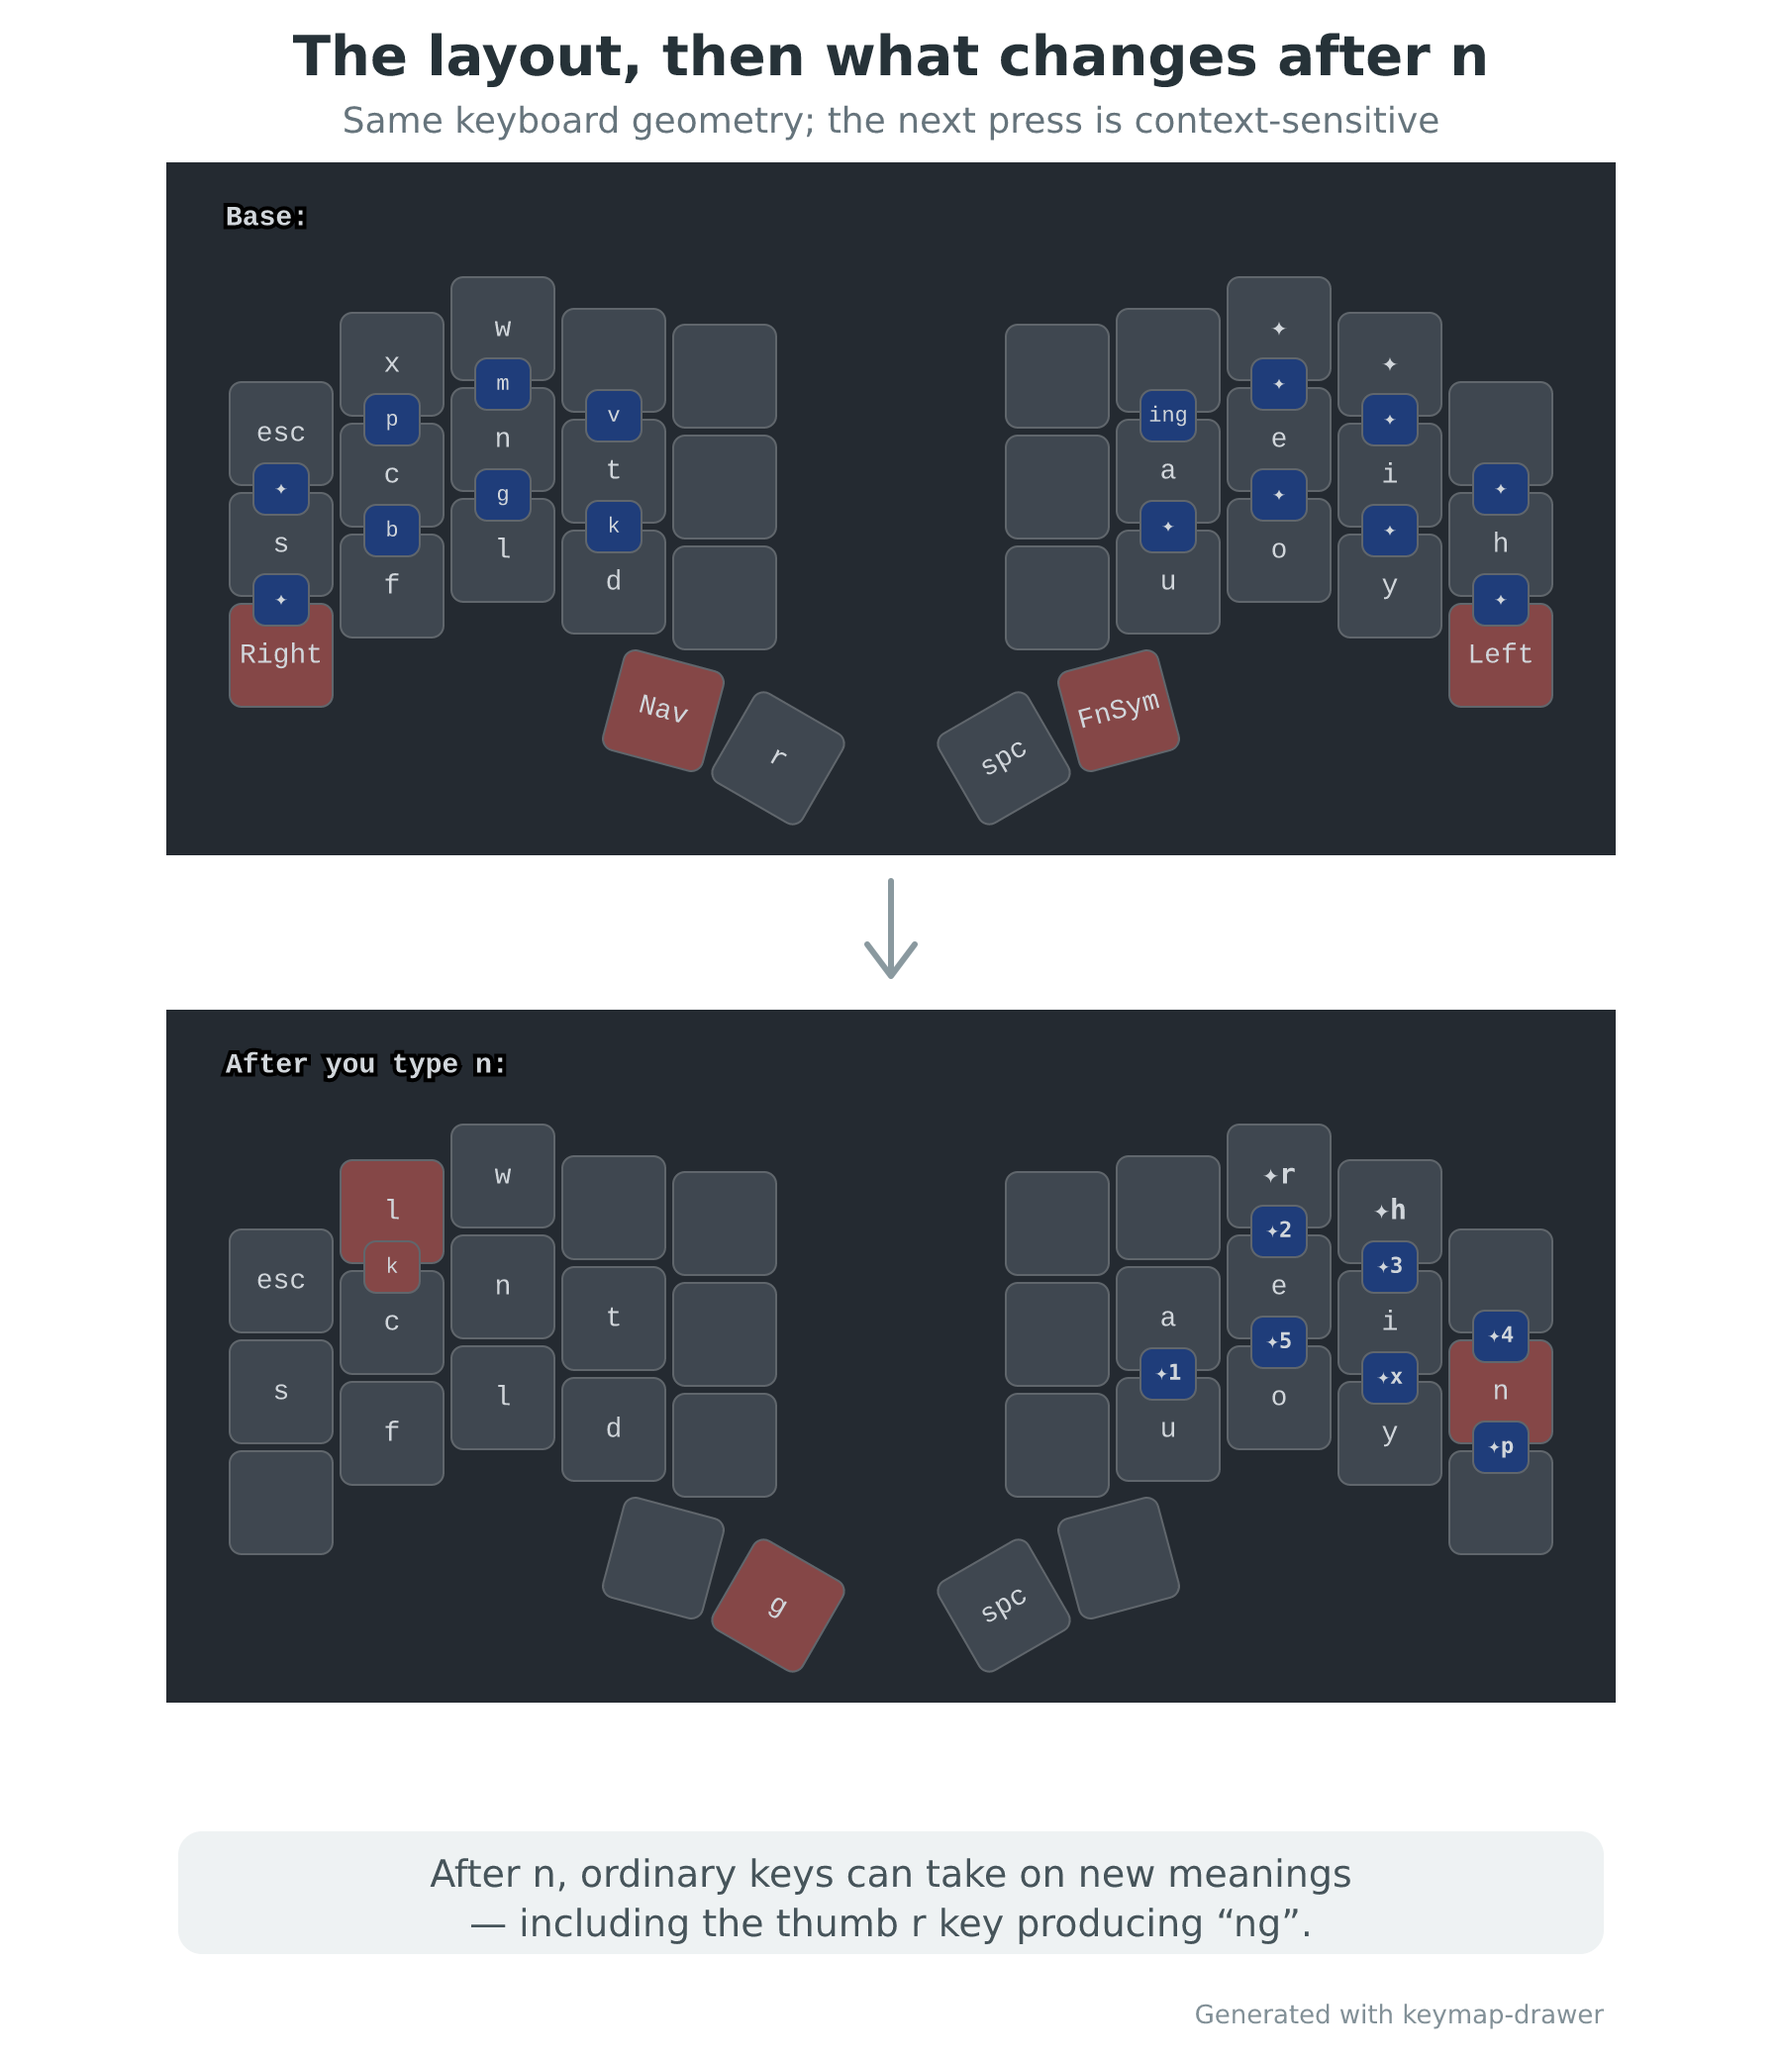
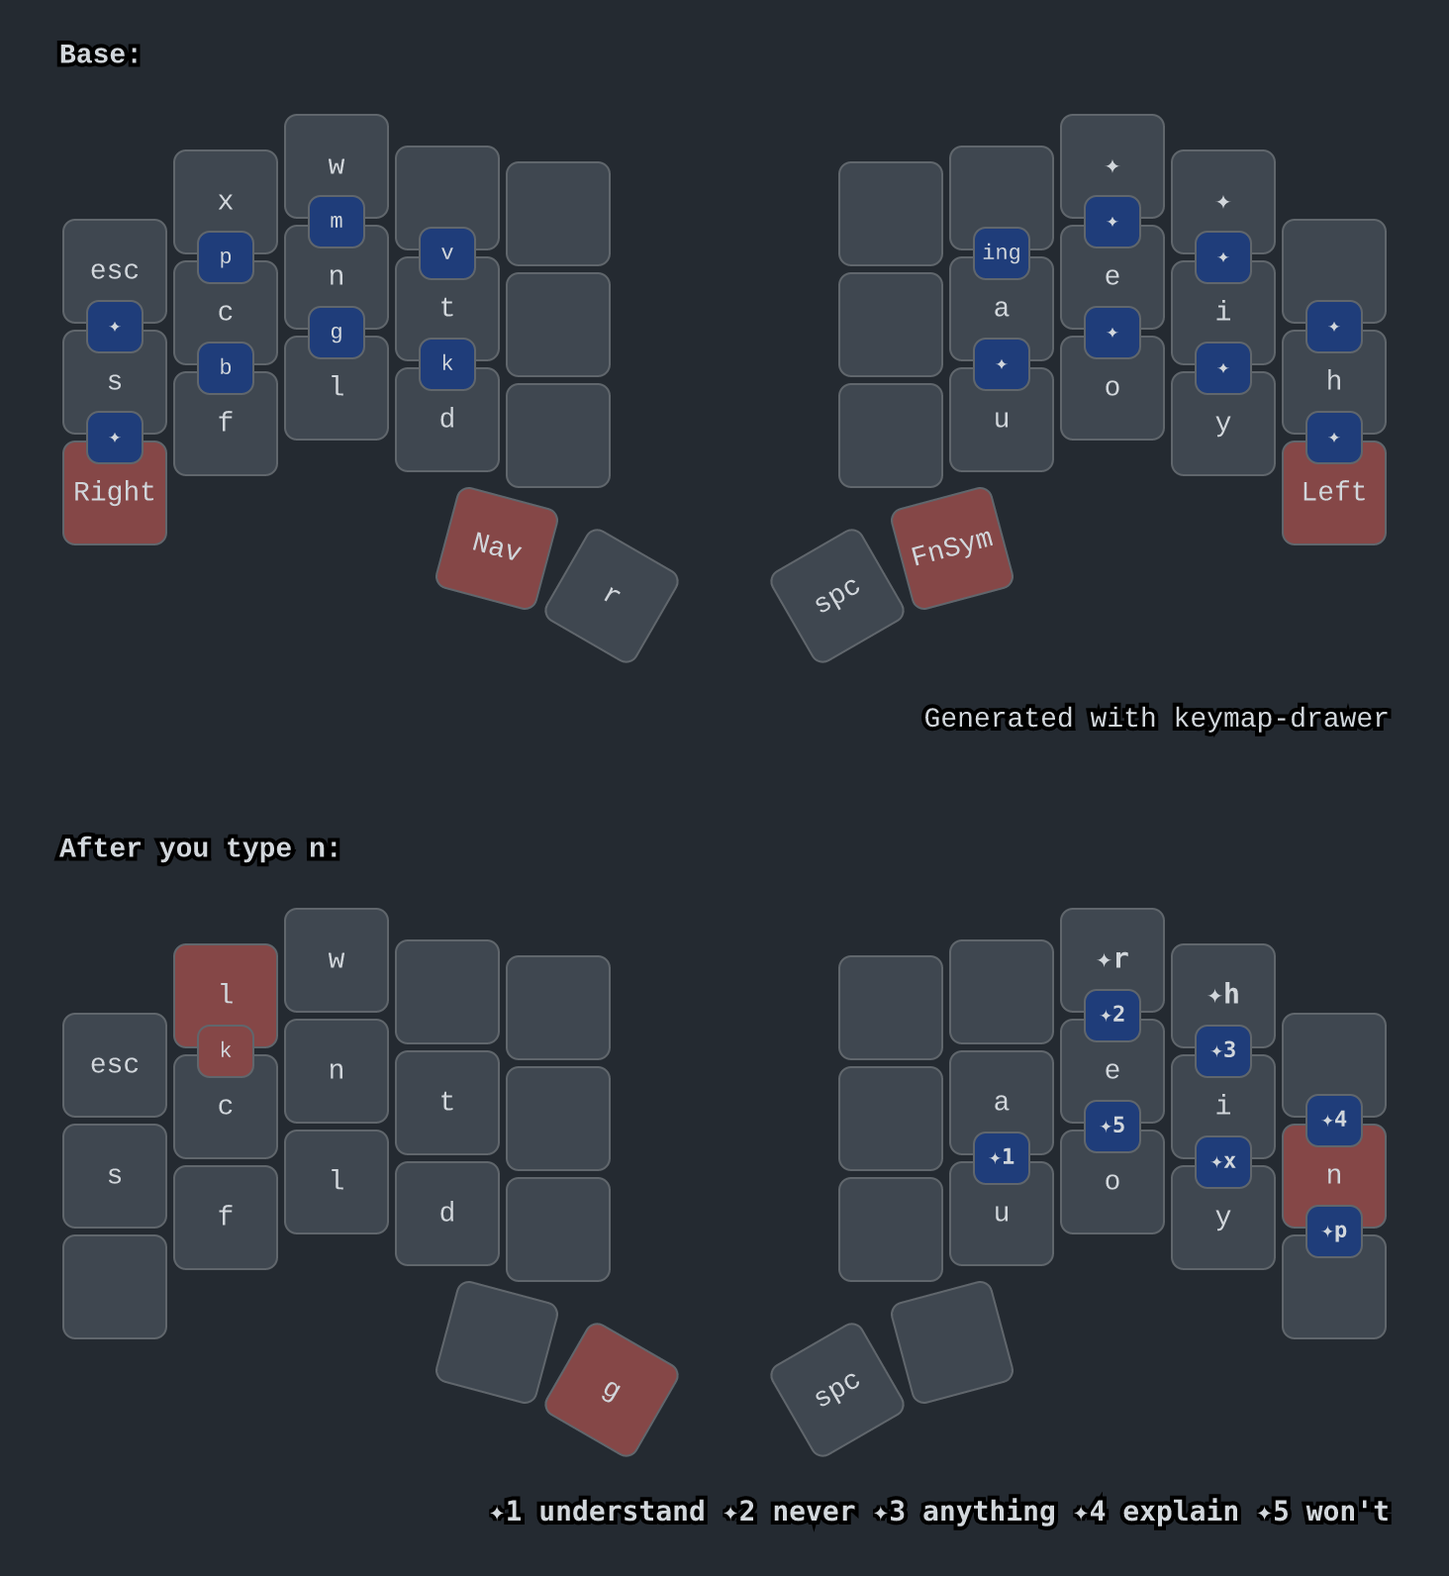
Finalize promo image catalog reference

diff --git a/blog/compose-after-n-promo.py b/blog/compose-after-n-promo.py
@@ -1,0 +1,18 @@
+"""Flatten the generated diagrams and append them for the promo image."""
+
+from pathlib import Path
+
+from PIL import Image
+
+ROOT = Path(__file__).parent
+base = Image.open(ROOT / "images/base-layer.png").convert("RGBA")
+after = Image.open(ROOT / "images/after-n.png").convert("RGBA")
+if base.size != after.size:
+    raise SystemExit(f"diagram sizes differ: {base.size} vs {after.size}")
+
+background = (36, 42, 49, 255)
+divider = 12
+output = Image.new("RGBA", (base.width, base.height * 2 + divider), background)
+output.alpha_composite(base, (0, 0))
+output.alpha_composite(after, (0, base.height + divider))
+output.convert("RGB").save(ROOT / "images/after-n-promo.png", optimize=True)

diff --git a/blog/README.md b/blog/README.md
@@ -32,12 +32,12 @@ The next two show what the *next* press does right after you type `n`:
 
   ![Everything reachable right after typing n](after-n.svg)
 
-- **[`after-n-promo.svg`](after-n-promo.svg)** — a vertical, Reddit-friendly composite of the actual
-  generated base-layer and after-`n` diagrams, preserving their real Ferris Sweep geometry. It pairs
-  the base layout with the context-specific state immediately after `n`, where the thumb `r` key
-  produces `ng`; `mise run generate` renders its 2× PNG.
+- **`images/after-n-promo.png`** — a vertical, Reddit-friendly composite of the actual generated
+  base-layer and after-`n` diagrams, preserving their real Ferris Sweep geometry. It pairs the base
+  layout with the context-specific state immediately after `n`, where the thumb `r` key produces
+  `ng`; `mise run generate` composes its 2× PNG with a narrow dark divider.
 
-  ![Base layout and the state after typing n](after-n-promo.svg)
+  ![Base layout and the state after typing n](images/after-n-promo.png)
 
 - **[`codec.svg`](codec.svg)** — how the magic dictionary is packed to fit flash: the 14 most frequent
   characters get a 4-bit code (two per byte), while a leading nibble of 14 or 15 escapes to a full
